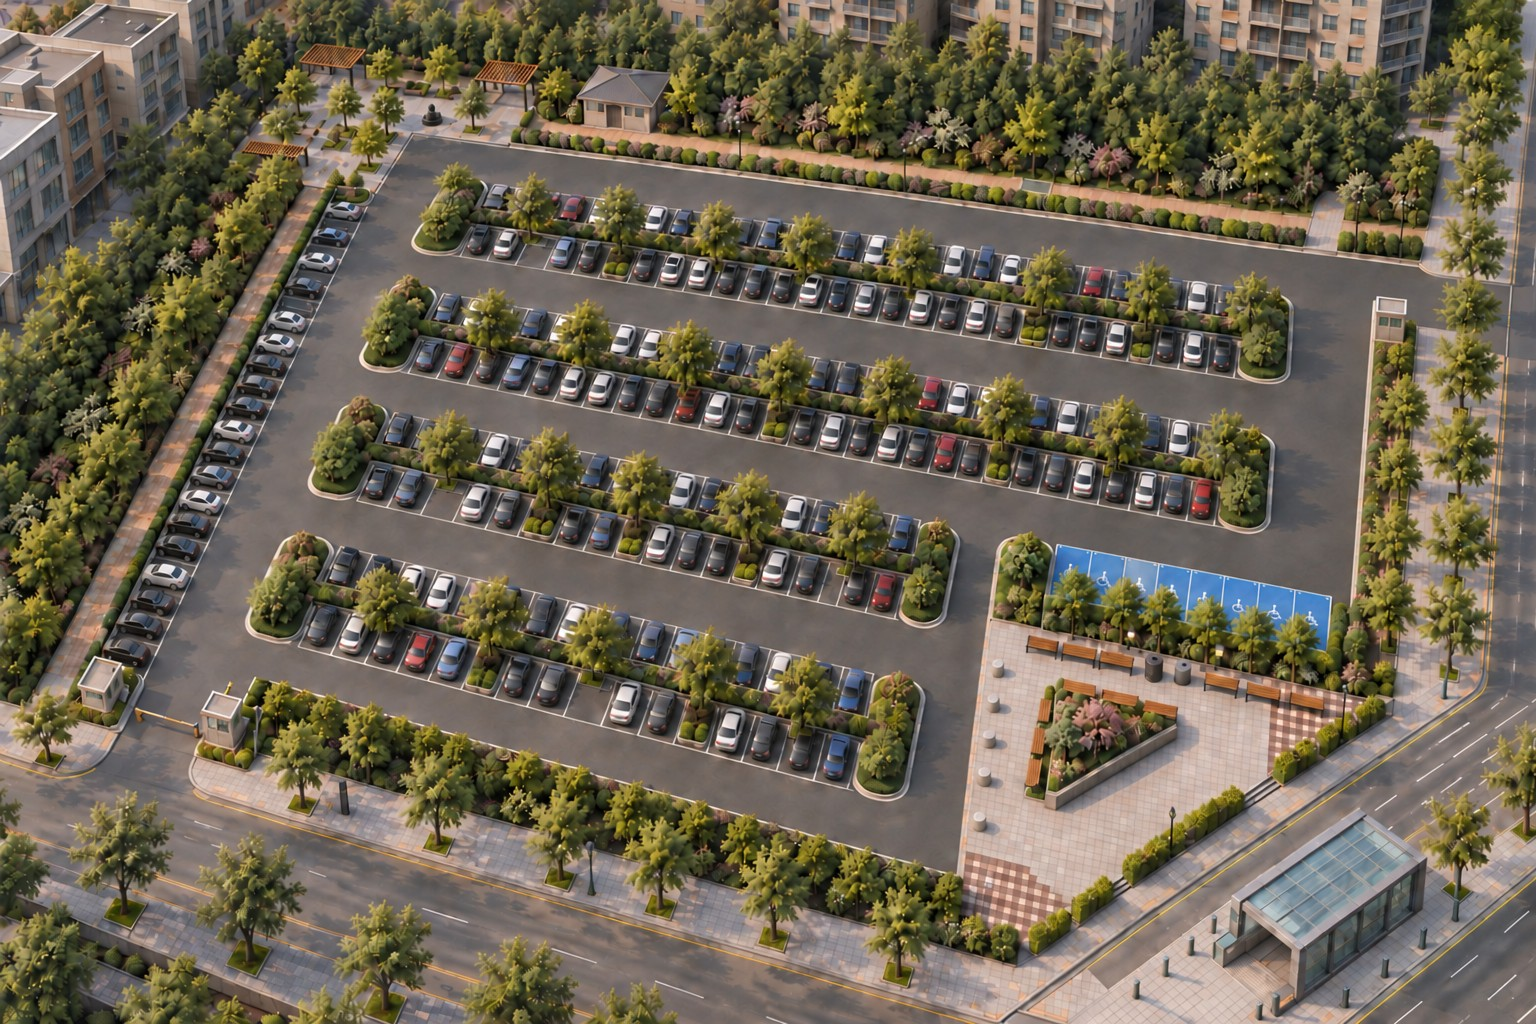
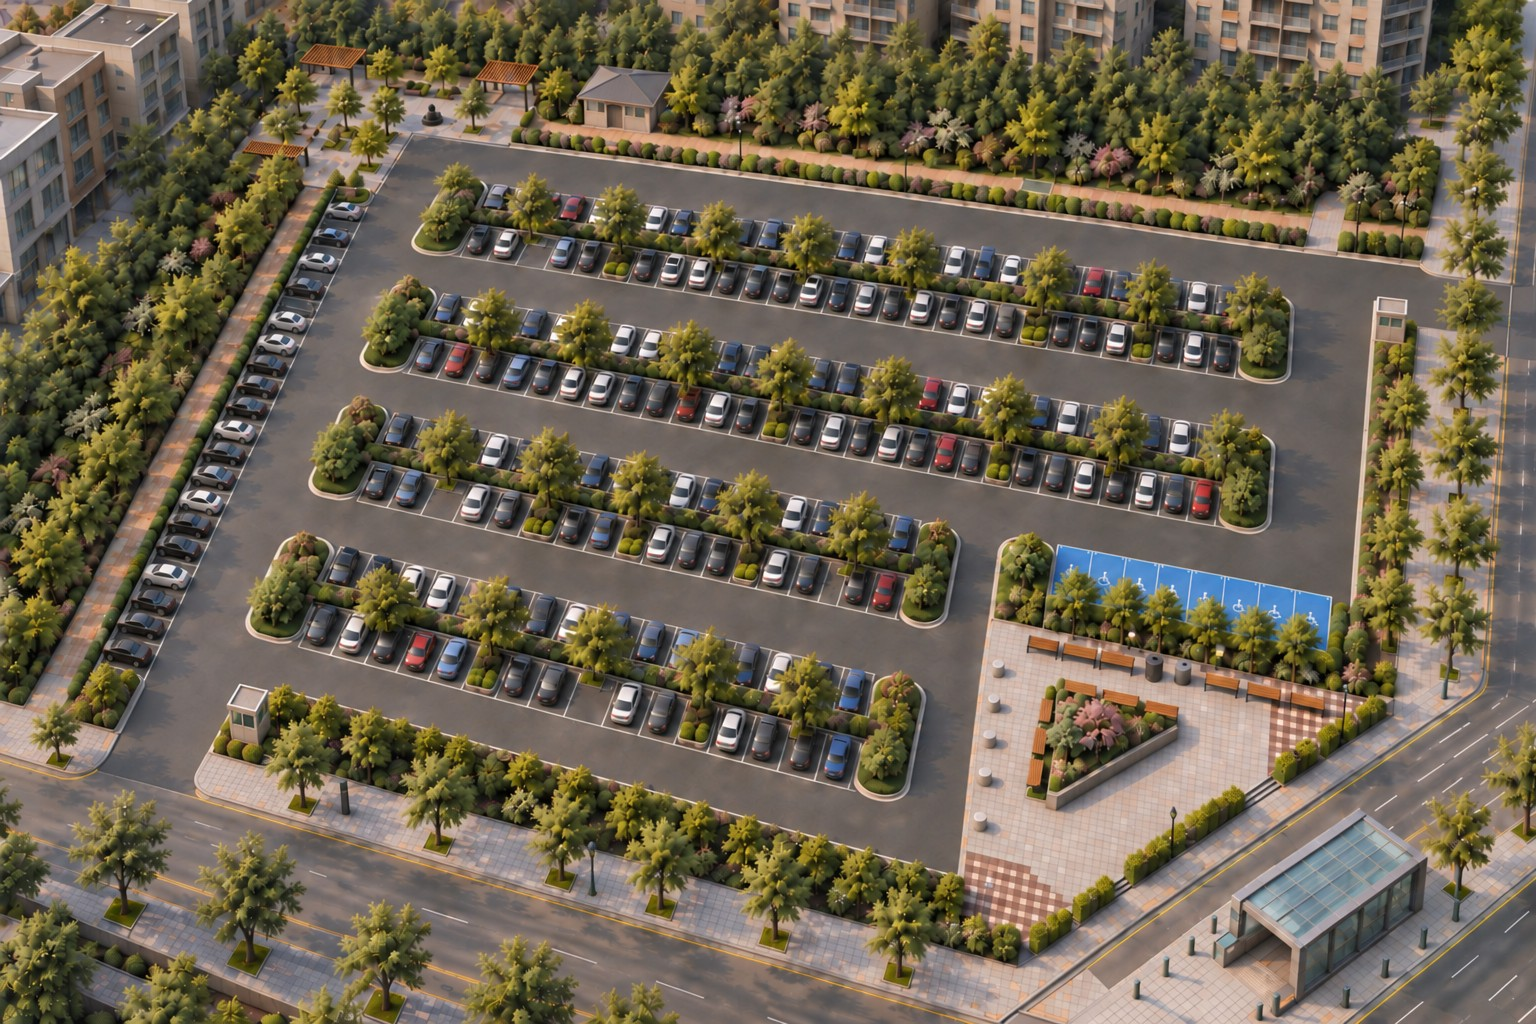
444 조감도: 남서 초소·출입구를 도면대로 고친 7회차로 교체
남서도 북동과 같았다 — 차단기, 초소 화단의 차로 돌출, 서쪽 보행로 끝의
도면에 없는 초소. 도면 + 6회차 그림을 주고 그 모서리만 고치게 했다.

diff --git a/_ls_drawing_refs/444_조감도/content.md b/_ls_drawing_refs/444_조감도/content.md
@@ -1,5 +1,5 @@
 '성운' 탭의 **답안지 II · 시설물배치도**와 **답안지 III · 배식평면도**, 문제지 조건을 AI 이미지 모델에 주고 만든 **입체 조감도**입니다(2026년 9월 18일).
-위 사진의 첫 장이 **GPT**(gpt-image-2.5-sunburst, 6회차), 둘째 장이 **제미나이**(gemini-3-pro-image-preview, 2회차)입니다.
+위 사진의 첫 장이 **GPT**(gpt-image-2.5-sunburst, 7회차), 둘째 장이 **제미나이**(gemini-3-pro-image-preview, 2회차)입니다.
 
 ## 만든 방법 (GPT)
 
@@ -9,11 +9,12 @@
 4. **북동 차량 출입구**를 도면과 대조하니(사용자 지적) 동측 녹지대와 보도가 끊기지 않아 차가 들어올 수 없었습니다. 도면은 북동 모서리 아래에 차량 진출입구, 그 위에 보행자 진출입구, 출입구 남쪽에 주차관리초소입니다. **도면 + 3회차 그림**을 주고 그 모서리만 열게 했습니다(4회차) — 동측 녹지대·보도를 가로지르는 진입로와 차단기, 그 북쪽에 보행 통로가 생겼습니다. 볼라드는 6개가 됐습니다
 5. 4회차는 초소 **양쪽에 차단기**가 생겨 왼쪽 것이 순환 차로를 막았습니다. 도면을 다시 보니 **차단기 자체가 없고** 초소는 동측 녹지대 북쪽 끝에 붙어 있습니다(사용자 지적). 차단기를 모두 없애고 초소를 출입구 남쪽 녹지대 끝으로 옮기게 했습니다(5회차)
 6. 5회차는 초소가 붙은 화단이 차로 쪽으로 **불룩 튀어나왔습니다**(사용자 지적). 녹지대 연석을 한 줄로 곧게 두고 초소를 그 폭 안에 넣게 했습니다(6회차)
+7. **남서 출입구**도 같은 문제였습니다(사용자 지적) — 차단기가 있고 초소 화단이 차로로 튀어나왔으며, 서쪽 보행로 끝에 도면에 없는 초소가 하나 더 있었습니다. 차단기를 없애고 초소를 남측 녹지대 서쪽 끝 폭 안에 넣고, 군더더기 초소를 지우게 했습니다(7회차)
 
 > **회차마다 도면을 첫 참고 그림으로 다시 준다.** 앞 회차 그림만 주면 기준이 흐려져 조금씩 어긋납니다.
 > **마스크로 일부만 고치거나 그림을 손으로 자르고 돌리지 않는다.** 그 방법으로 한 앞선 시도는 장애인 주차칸을 옆 주차열에 맞춘다고 옮기다 순환 차로를 막고, 비스듬한 조감도에서 칸만 수평으로 세워 오히려 주변과 어긋나게 만들었습니다. 틀리면 도면과 함께 **통째로 다시 그리게** 하는 편이 확실합니다
 
-## 도면과 대조 (GPT 6회차)
+## 도면과 대조 (GPT 7회차)
 
 | 도면(성운 답안) | 결과 |
 | --- | --- |
@@ -24,6 +25,7 @@
 | 서측 보행로 + 주차 1줄, 북 · 서측 12m 상록 차폐 띠, 남 · 동측 6m 가로수 | ✓ |
 | 북서 휴게광장(퍼걸러 2 · 격자 수목보호대), 북측 화장실, 주차관리소 북동 · 남서 | ✓ |
 | 북동 차량 진출입구 — 동측 광로에서 녹지대 · 보도를 끊고 들어오는 진입로, 그 북쪽 보행 진출입구 | ✓ (4~6회차에 고침) — 차단기 없음, 초소는 동측 녹지대 북쪽 끝에 붙어 연석이 곧게 이어짐 |
+| 남서 차량 진출입구 — 남측 광로에서 들어오는 진입로, 초소는 남측 녹지대 서쪽 끝, 그 서쪽에 보행 진출입구 | ✓ (7회차에 고침) — 차단기 없음, 연석 곧음, 도면에 없던 초소 하나 지움 |
 | 남동 광장 — 장애인 주차 아래 녹지대(교목 6 · 정원등 3), 벤치 3 + 휴지통 · 음수대 + 벤치 3 | ✓ |
 | 남동 광장 — 직각삼각형 화단(위 벤치 3 · 왼쪽 벤치 3), 북동 · 남서 모서리 체크무늬 포장 | ✓ |
 | 남동 광장 서측 볼라드 5 | **6개** — 세 번 요구해 7 → 6 |
@@ -119,6 +121,18 @@
     The FIRST attached image is the facilities plan of a parking park (north is up). The SECOND attached image is a 3D rendering of it that is correct in layout and camera. Reproduce the second image EXACTLY — same camera, perspective, parking rows, trees, buildings, plazas, roads, subway entrance, lighting — and change ONLY the north-east corner, where the attendant booth stands:
 
     Right now the booth sits on a planting island that BULGES WEST into the asphalt ring aisle. Remove that bulge. The east planting strip must keep ONE straight north-south curb line along its whole length, and the small square booth (4 x 4 m) must sit INSIDE the width of that strip at its north end — flush with the strip, its west wall on the same line as the strip's curb, nothing projecting into the aisle. The ring aisle beside it runs straight, at full width, with a plain straight curb. Directly north of the booth is the open entrance driveway to the east boulevard (no gate, no barrier), and north of that the pedestrian block-paved opening, both unchanged.
+
+    Nothing else changes. Photorealistic landscape-architecture visualization. Do NOT write any text, letters, numbers, labels or signs.
+
+## 7회차 프롬프트 — GPT (참고: 시설물배치도 · 6회차 그림)
+
+    The FIRST attached image is the facilities plan of a parking park (north is up). The SECOND attached image is a 3D rendering of it that is correct in layout and camera. Reproduce the second image EXACTLY — same camera, perspective, parking rows, trees, buildings, plazas, roads, subway entrance, lighting, and the already-correct north-east entrance — and change ONLY the SOUTH-WEST corner, to match the plan:
+
+    1. REMOVE ALL BARRIER ARMS / GATES at the south-west vehicle entrance. The plan has none. The entrance is an open asphalt driveway running north-south from the south boulevard into the ring aisle, with a dropped curb at the sidewalk.
+
+    2. The south-west parking attendant booth (small 4 x 4 m square hut) must sit INSIDE the width of the SOUTH planting strip at its WEST end — flush with the strip, its north wall on the same straight line as the strip's north curb. Right now the booth stands on a rounded planting bed that BULGES NORTH into the ring aisle: remove that bulge so the strip keeps one straight east-west curb line and the aisle runs straight at full width. The driveway is directly WEST of the booth.
+
+    3. REMOVE the second small hut / gate standing further west at the foot of the west pedestrian walkway; the plan has only a plain pedestrian opening there (block-paved path from the walkway to the south sidewalk), no building.
 
     Nothing else changes. Photorealistic landscape-architecture visualization. Do NOT write any text, letters, numbers, labels or signs.
 
